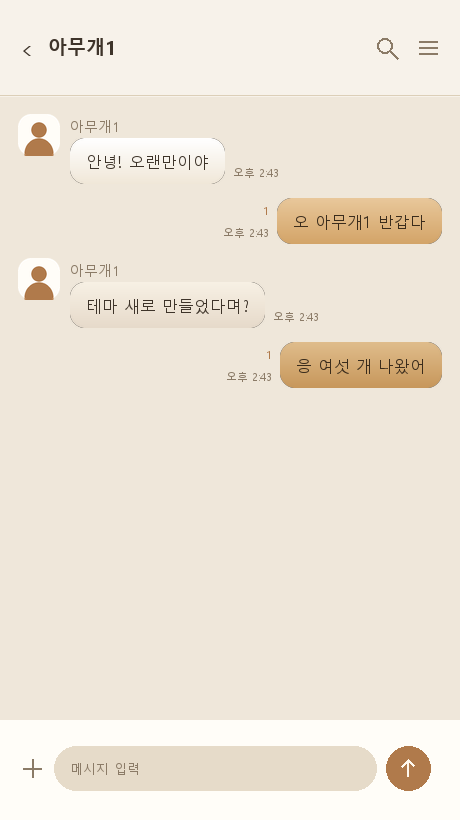
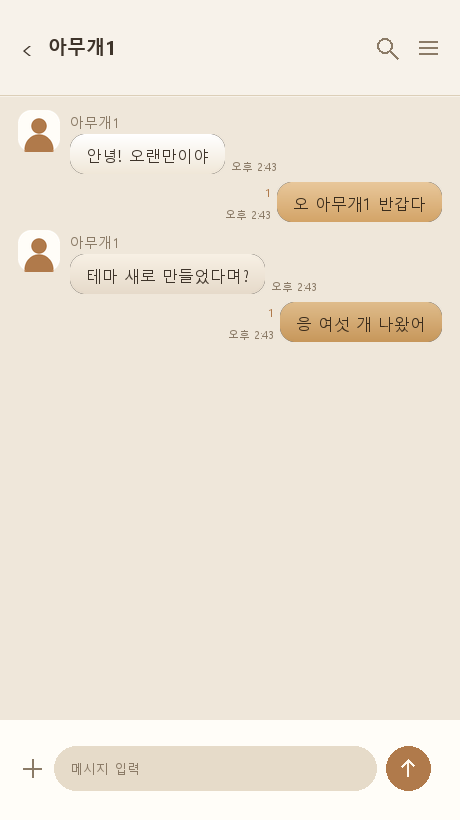
말풍선 사이 간격을 좁히고 미리보기를 실제 배치와 맞춘다
말풍선 프레임 높이가 곧 말풍선 사이 간격이다. 글로우 여백을 12pt 씩 두니 위아래로
24pt 가 빈 채로 벌어졌다. 여백을 절반으로 줄이고 글로우는 더 좁고 진하게 만들어
보이는 정도를 유지했다. 기본 세로 여백도 11 에서 9 로 내렸다 — 세로는 글자 주변이
아니라 말풍선끼리의 간격으로 나타난다.

미리보기는 말풍선을 글자 크기에 맞춰 그리고 글로우를 그 바깥에 얹고 있었다.
카톡은 반대로 한다. 프레임을 글자와 edgeinsets 로 잡고 그림을 프레임 전체에 늘려
채우므로 글로우 여백이 프레임 안에 들어간다. 그래서 미리보기는 멀쩡한데 폰에서만
글자가 몸통에 붙고 간격이 벌어졌다.

이제 미리보기도 프레임부터 잡고 그 안에 그림을 채운다. 보기 좋게 그리는 게 아니라
실제로 어떻게 나올지를 그린다.

diff --git a/tools/preview.py b/tools/preview.py
@@ -168,16 +168,24 @@ def chat(t):
     d = ImageDraw.Draw(img)
 
     # 실제 테마의 edgeinsets 와 같은 값을 쓴다. 미리보기만 넉넉하면 폰에서 짜쳐 보인다
-    pad_x, pad_y = gen.INSET_H, gen.INSET_V
-    y = HEAD + 18
+    # 카톡이 말풍선을 잡는 방식 그대로 그린다.
+    #   프레임 = 글자 + edgeinsets, 말풍선 그림은 그 프레임을 통째로 채운다.
+    #   글로우가 있으면 그림 바깥 여백이 프레임 안에 들어가므로 몸통이 안으로 밀리고,
+    #   프레임 높이가 커진 만큼 말풍선 사이도 벌어진다.
+    # 미리보기만 이상적으로 그리면 여기서 생기는 문제를 못 잡는다.
+    glow, pad = gen.glow_of(t)
+    ins_v, ins_h = gen.INSET_V + pad, gen.INSET_H + pad
+    line_h = 22
+    gap = 8                      # 카톡이 말풍선 사이에 두는 간격
+
+    y = HEAD + 14
     for i, (side, msg) in enumerate(CHAT):
-        # 짝수/홀수로 01 과 02 를 번갈아 쓴다. 두 칸의 색 차이가 눈에 보이게
         key = ('recv' if side == 'them' else 'send') + ('' if i % 4 < 2 else '_alt')
         colors = t[key]
         tc = rgb(t['recv_text'] if side == 'them' else t['send_text'])
 
-        tw = _text_w(d, msg, F_MSG)
-        bw, bh = tw + pad_x * 2, 24 + pad_y * 2
+        fw = _text_w(d, msg, F_MSG) + ins_h * 2
+        fh = line_h + ins_v * 2
 
         if side == 'them':
             if i == 0 or CHAT[i - 1][0] != 'them':
@@ -185,21 +193,23 @@ def chat(t):
                 img.paste(av, (18, y), av)
                 d.text((70, y + 2), '아무개1', font=F_NAME, fill=rgb(t['subtext']))
                 y += 24
-            bx = 70
-            b, gp = bubble_box(t, bw, bh, colors)
-            img.paste(b, (bx - gp, y - gp), b)
-            d.text((bx + pad_x, y + pad_y + 1), msg, font=F_MSG, fill=tc)
-            d.text((bx + bw + 8, y + bh - 12), '오후 2:43',
+            fx = 70 - pad        # 몸통 왼쪽이 아바타 옆에 오도록 여백만큼 당긴다
+        else:
+            fx = W - 18 + pad - fw
+
+        b, _ = bubble_box(t, fw - pad * 2, fh - pad * 2, colors)
+        img.paste(b, (fx, y), b)
+        d.text((fx + ins_h, y + ins_v + 1), msg, font=F_MSG, fill=tc)
+
+        if side == 'them':
+            d.text((fx + fw - pad + 6, y + fh - pad - 8), '오후 2:43',
                    font=F_TIME, fill=rgb(t['subtext']), anchor='lm')
         else:
-            bx = W - 18 - bw
-            b, gp = bubble_box(t, bw, bh, colors)
-            img.paste(b, (bx - gp, y - gp), b)
-            d.text((bx + pad_x, y + pad_y + 1), msg, font=F_MSG, fill=tc)
-            d.text((bx - 8, y + bh - 12), '오후 2:43',
+            d.text((fx + pad - 6, y + fh - pad - 8), '오후 2:43',
                    font=F_TIME, fill=rgb(t['subtext']), anchor='rm')
-            d.text((bx - 8, y + 12), '1', font=F_TIME, fill=rgb(t['accent']), anchor='rm')
-        y += bh + 14
+            d.text((fx + pad - 6, y + pad + 10), '1',
+                   font=F_TIME, fill=rgb(t['accent']), anchor='rm')
+        y += fh + gap
 
     # 입력바
     ca = t.get('cell_alpha', 1.0)

diff --git a/tools/gen.py b/tools/gen.py
@@ -28,7 +28,9 @@ OUT = os.path.join(ROOT, 'build-src')
 
 # 말풍선 기하 (pt). CAP 은 CSS 의 cap inset 과 반드시 같아야 한다
 SIZE, RADIUS, CAP = 44, 14, 18
-INSET_V, INSET_H = 11, 16   # 글자와 말풍선 사이 기본 여백 (pt)
+INSET_V, INSET_H = 9, 16    # 글자와 말풍선 사이 기본 여백 (pt)
+# 세로를 가로보다 좁게 두는 이유: 말풍선 프레임 높이가 곧 말풍선 사이 간격이 된다.
+# 세로 여백을 키우면 글자 주변이 아니라 말풍선끼리 벌어져 보인다.
 
 
 def rgb(h):
@@ -119,10 +121,10 @@ def bubble_box(w, h, colors, radius, style='solid', alpha=255, glow=None, pad=0,
         # 말풍선마다 자기 색으로 빛난다. 칸마다 색이 다른 테마에 어울린다
         gc = mid(colors[0], colors[1])
     halo.paste(Image.new('RGBA', (gw, gh), rgb(gc) + (255,)), (0, 0), shape)
-    halo = halo.filter(ImageFilter.GaussianBlur(radius=pad * 0.42))
+    halo = halo.filter(ImageFilter.GaussianBlur(radius=pad * 0.55))
     # 흐리면 알파가 얇게 퍼져서 거의 안 보인다. 몸통 가까운 쪽을 끌어올린다
     halo.putalpha(halo.getchannel('A').point(
-        lambda v: min(255, int(v * 2.4 * ga / 255))))
+        lambda v: min(255, int(v * 3.2 * ga / 255))))
     halo.alpha_composite(out, (pad, pad))
     return halo
 
@@ -320,6 +322,9 @@ InputBarStyle-Chat
  edgeinsets 는 글자와 프레임 사이 여백이다. 글로우가 있으면 그림 바깥쪽 여백이
  프레임 안에 들어가므로 몸통이 그만큼 안으로 밀린다. 여백을 같이 키우지 않으면
  글자가 몸통 가장자리에 붙어버린다.
+
+ 반대로 여백이 크면 말풍선 사이가 벌어진다. 프레임 높이가 곧 간격이기 때문이다.
+ 그래서 글로우 여백은 필요한 만큼만 두고 세기로 보완한다.
 
  01 과 02 에 다른 색을 주면 눌린 말풍선과 그룹 말풍선이 달라 보인다.
 */

diff --git a/tools/themes.py b/tools/themes.py
@@ -37,7 +37,7 @@ chat_bg
   None 이면 단색. ('linear', 위, 아래) 또는 ('aurora', 바탕, [색...]) 이면 이미지를 그린다.
 """
 
-VERSION = '0.7'
+VERSION = '0.8'
 
 THEMES = [
     dict(
@@ -120,7 +120,7 @@ THEMES = [
         recv=('#FFFFFF', '#E6EDF7'), recv_alt=('#F3F7FF', '#DCE6F4'),
         send_text='#0B2D50', recv_text='#1F2733',
         bubble_style='glass', bubble_alpha=165, cell_alpha=0.55,
-        glow=('#6FB6FF', 90, 10),
+        glow=('#6FB6FF', 110, 5),
         chat_bg=('blobs', '#EFF3FA', ['#9BD4FF', '#C9B6FF', '#9BF0DC', '#FFC8E4']),
         main_bg=('blobs', '#F4F6FB', ['#BFE2FF', '#DCD0FF', '#C4F3E6', '#FFD9EC']),
     ),
@@ -134,7 +134,7 @@ THEMES = [
         recv=('#39404F', '#262C38'), recv_alt=('#454D5E', '#2F3542'),
         send_text='#EAF4FF', recv_text='#E8EDF6',
         bubble_style='glass', bubble_alpha=175, cell_alpha=0.55,
-        glow=('#5AB5FF', 120, 12),
+        glow=('#5AB5FF', 150, 6),
         chat_bg=('blobs', '#0B0E14', ['#2F6FB5', '#6A4FB0', '#2E8C7E', '#B0487F']),
         main_bg=('blobs', '#10131A', ['#27568C', '#4E3C86', '#256B61', '#8A3A64']),
     ),
@@ -162,8 +162,8 @@ def _variant(src, key, name, note, **over):
 THEMES += [
     _variant('mixed04', 'mixed09', '믹스드 v2',
              '믹스드에 글로우를 얹은 것. 말풍선마다 자기 색으로 빛남',
-             glow=('auto', 130, 12)),
+             glow=('auto', 160, 6)),
     _variant('candy06', 'candy10', '캔디 팝 v2',
              '캔디 팝에 글로우를 얹은 것. 밝은 바탕이라 빛이 은은하게 걸림',
-             glow=('auto', 120, 11)),
+             glow=('auto', 150, 5)),
 ]

diff --git a/CLAUDE.md b/CLAUDE.md
@@ -58,6 +58,12 @@ powershell -ExecutionPolicy Bypass -File preview.ps1
 테마마다 목록·채팅방·실행화면 세 장이 나온다. 말풍선은 네 칸을 전부 그린다 —
 알록달록한 테마는 거기서 드러난다.
 
+**미리보기는 카톡이 실제로 배치하는 방식을 따라야 한다.** 보기 좋게 그리면 안 된다.
+프레임 = 글자 + `edgeinsets` 이고, 말풍선 그림은 그 프레임을 통째로 채운다.
+글로우가 있으면 그림 바깥 여백이 프레임 안에 들어가 몸통이 밀리고, 프레임이 커진 만큼
+말풍선 사이도 벌어진다. 한때 미리보기가 글로우를 말풍선 바깥에 그렸는데,
+그래서 폰에서만 글자가 몸통에 붙고 간격이 벌어지는 걸 못 잡았다.
+
 `docs/` 는 저장소에 넣는다. README 가 그 그림들로 테마 목록을 만들기 때문이다.
 
 **README 의 테마 목록도 생성물이다.** `<!-- THEMES:START -->` 와 `<!-- THEMES:END -->` 사이는
